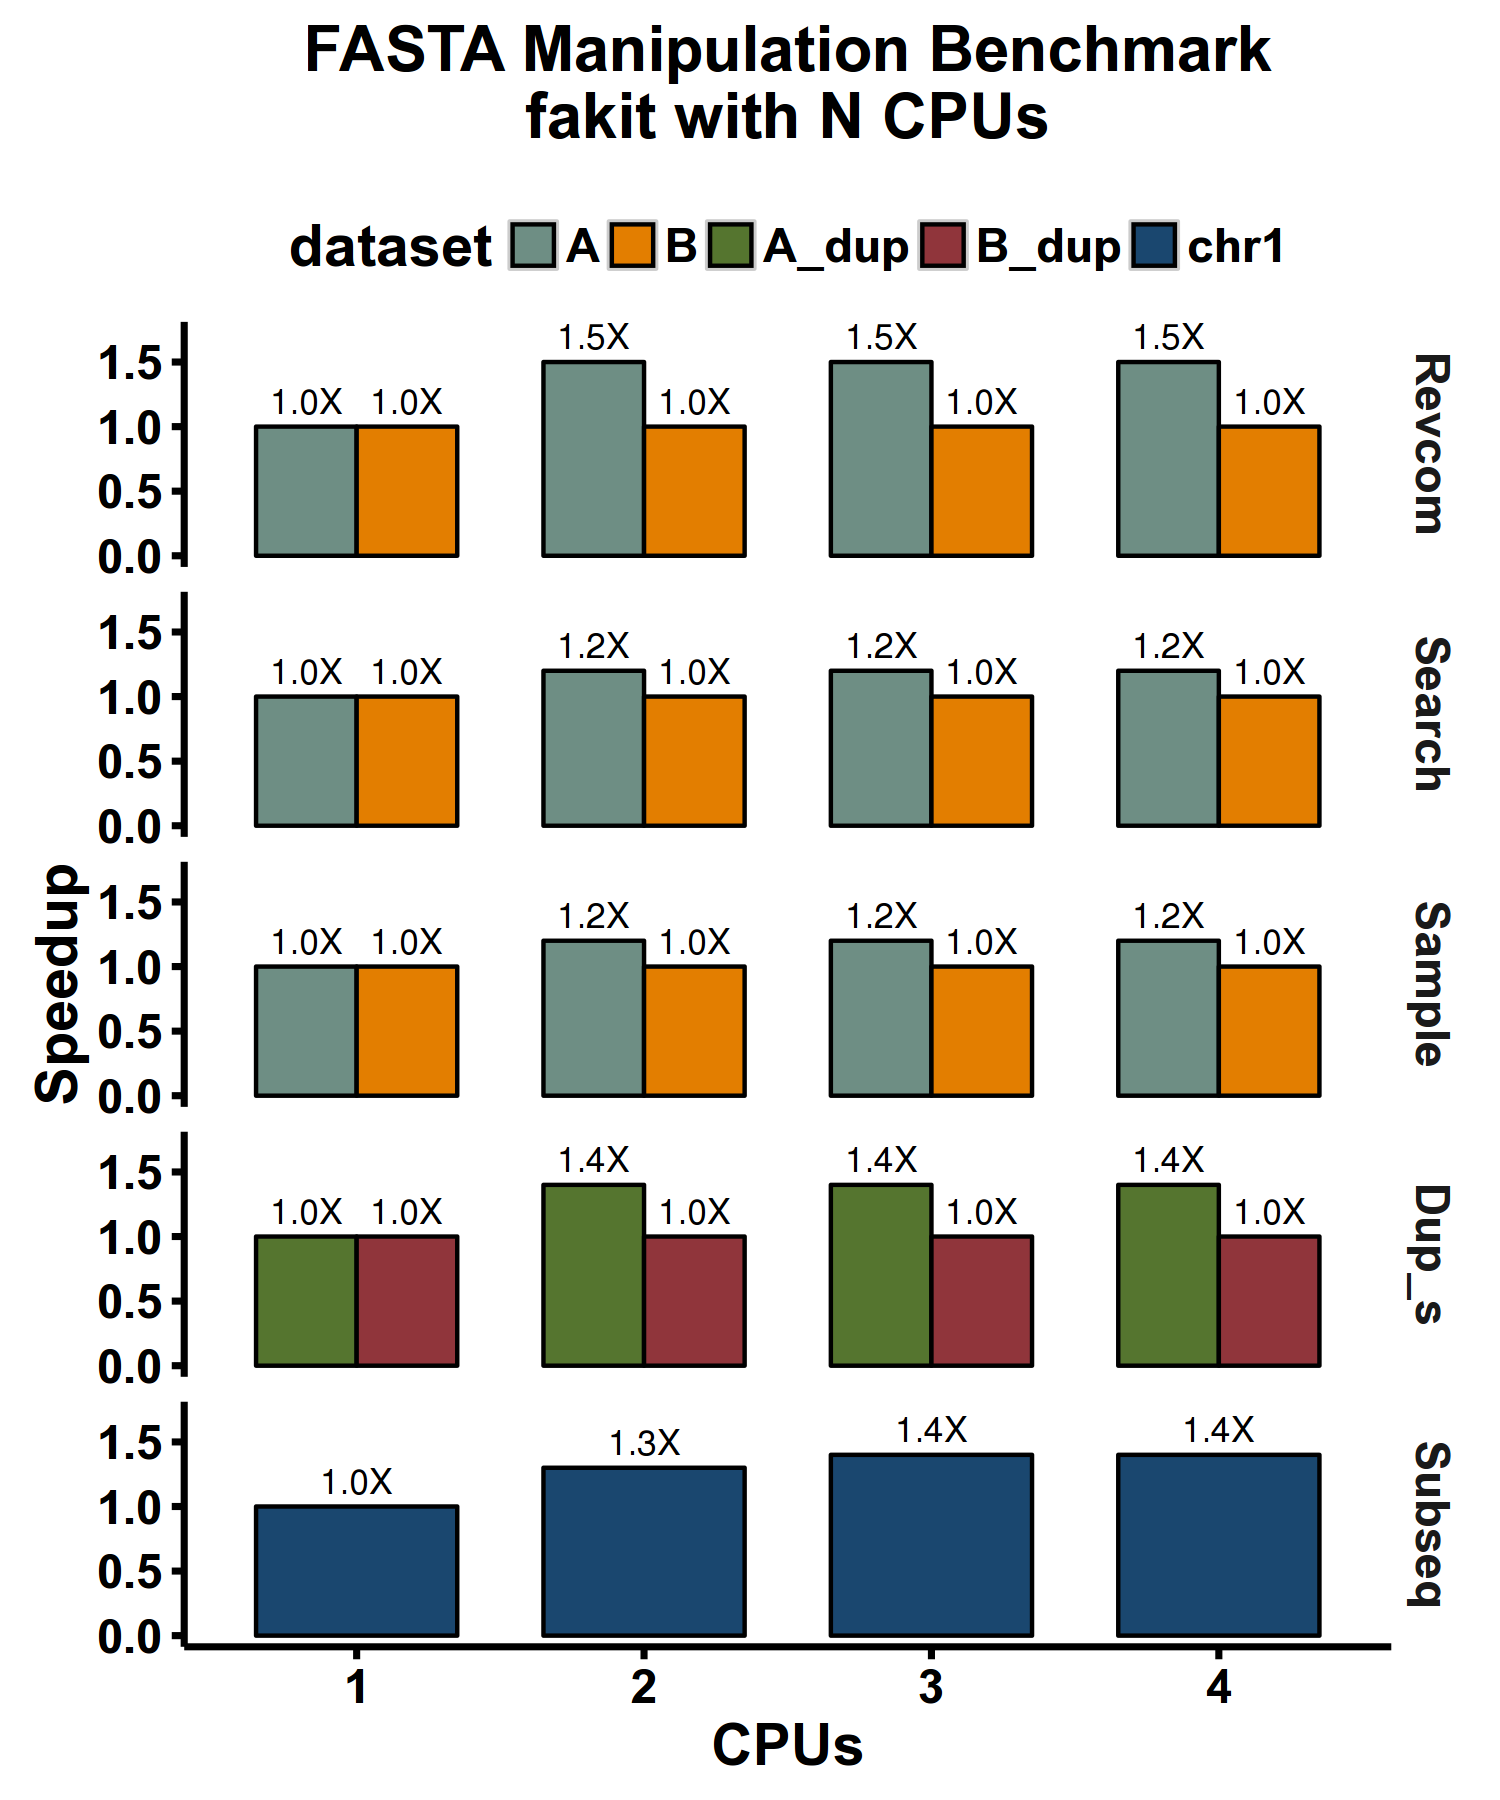
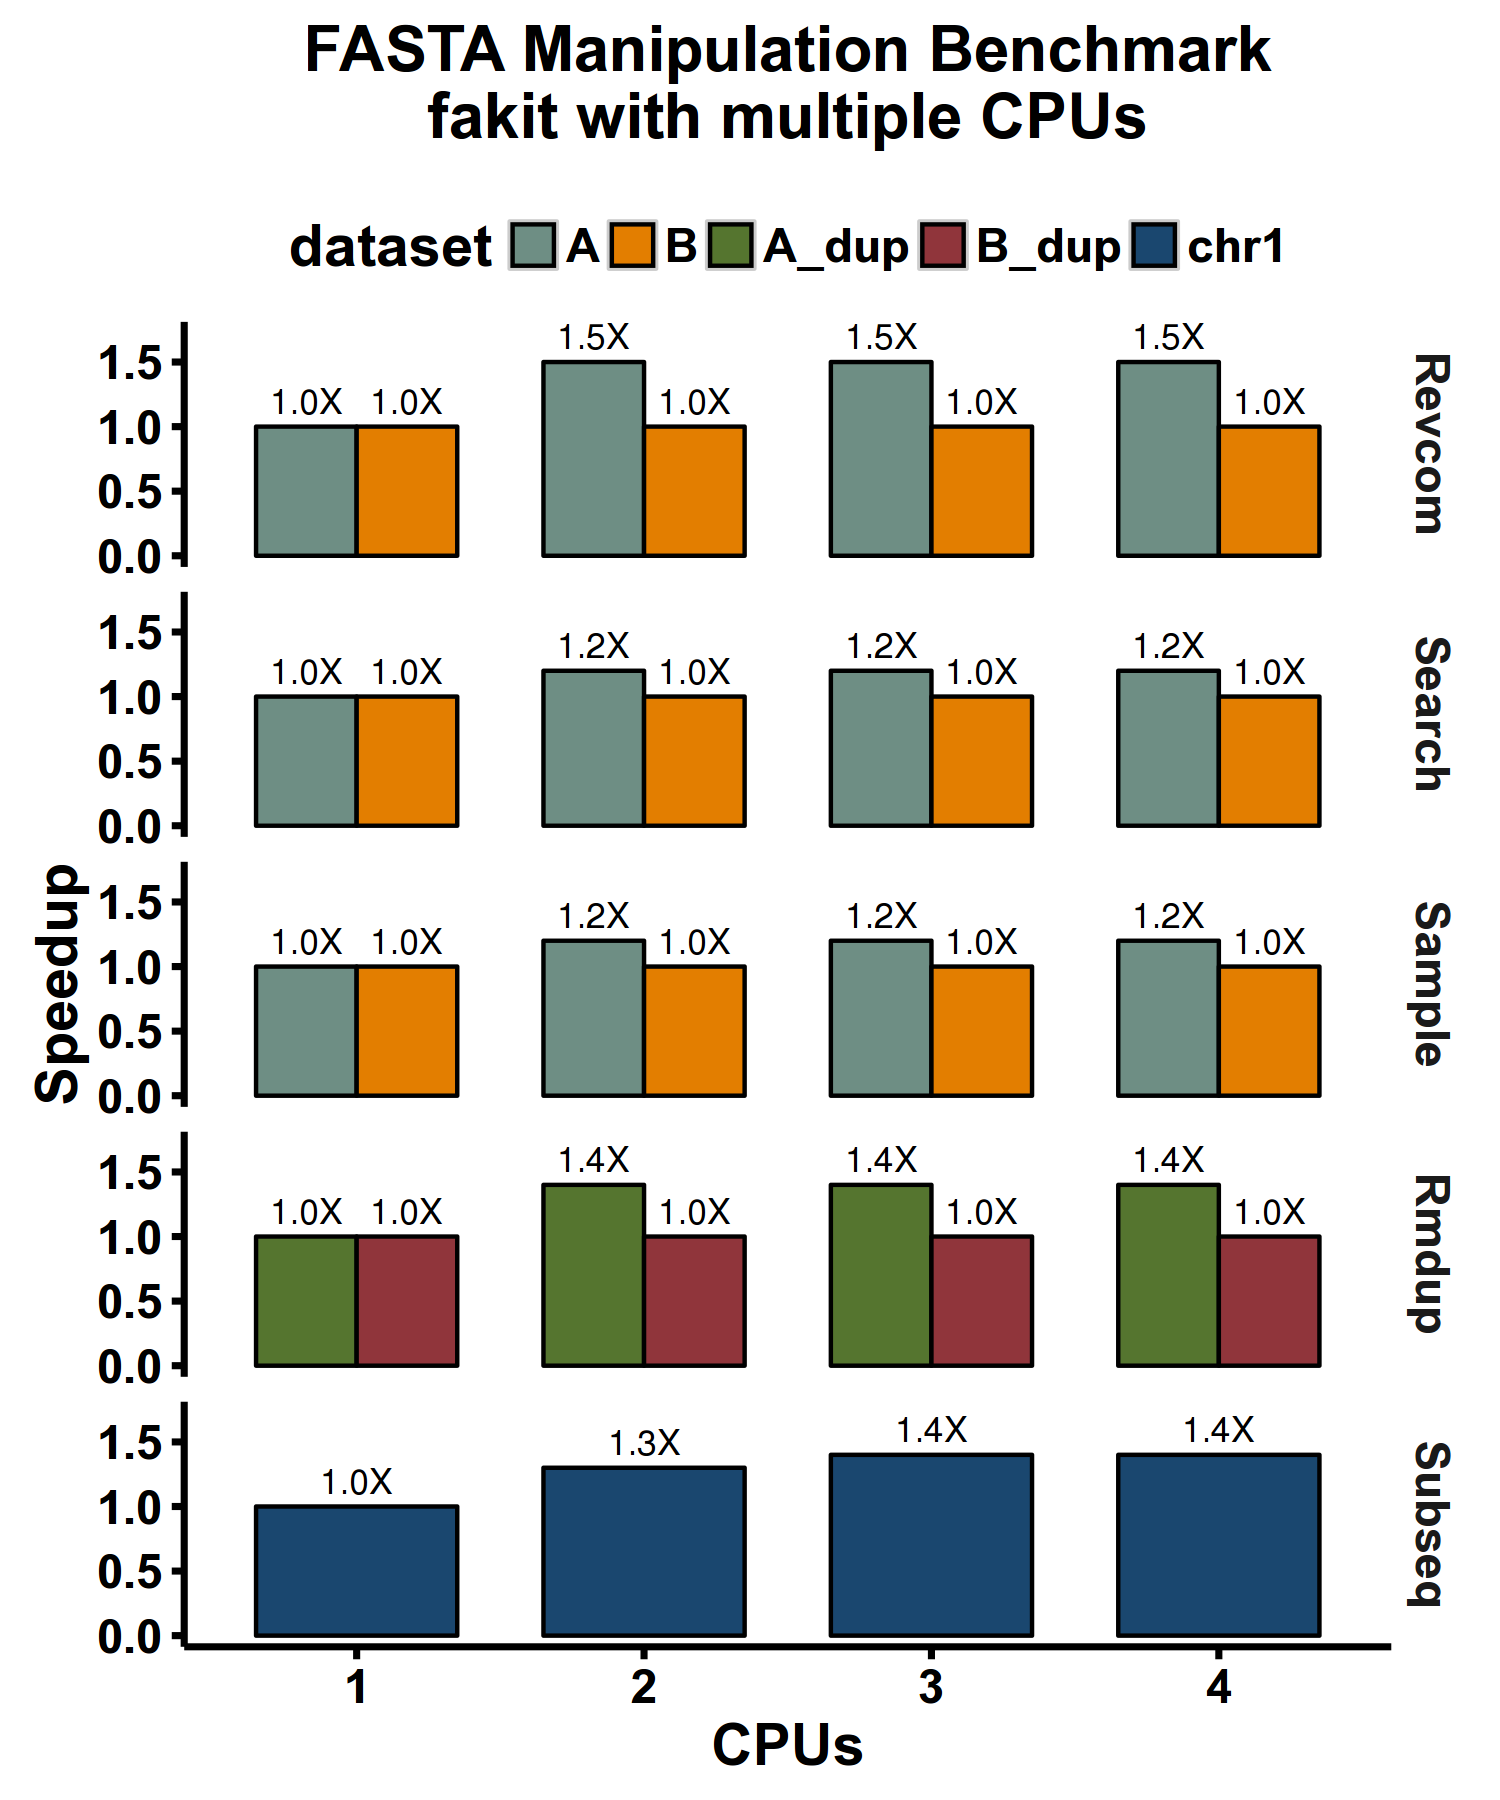
update doc

Changed region(s): [[0.276, 0.0311, 0.7667, 0.0933], [0.92, 0.6533, 0.9813, 0.7467]]

diff --git a/benchmark/index.html b/benchmark/index.html
@@ -143,7 +143,7 @@
         
             <li><a href="#platform">Platform</a></li>
         
-            <li><a href="#automatic-benchmark-and-ploting-scripts">Automatic benchmark and ploting scripts</a></li>
+            <li><a href="#automatic-benchmark-and-plotting-scripts">Automatic benchmark and plotting scripts</a></li>
         
             <li><a href="#test-1-reverse-complement">Test 1. Reverse Complement</a></li>
         
@@ -258,7 +258,7 @@
 <td>--</td>
 </tr>
 <tr>
-<td align="left">Search by motifs</td>
+<td align="left">Search by pattern</td>
 <td>Yes</td>
 <td>Yes</td>
 <td>--</td>
@@ -269,7 +269,7 @@
 <tr>
 <td align="left">Sample seqs</td>
 <td>Yes</td>
-<td>Yes</td>
+<td>--</td>
 <td>--</td>
 <td>--</td>
 <td>Yes</td>
@@ -460,8 +460,9 @@ dataset_B.fa         DNA           6    46,709,983    59,698,489    80,373,285
 <li>Perl: perl 5, version 22, subversion 1 (v5.22.1) built for x86_64-linux-thread-multi</li>
 <li>Python: Python 2.7.10 (default, Sep  8 2015, 17:20:17) [GCC 5.1.1 20150618 (Red Hat 5.1.1-4)] on linux2</li>
 </ul>
-<h2 id="automatic-benchmark-and-ploting-scripts">Automatic benchmark and ploting scripts</h2>
+<h2 id="automatic-benchmark-and-plotting-scripts">Automatic benchmark and plotting scripts</h2>
 <p>Scripts are available at:  <a href="https://github.com/shenwei356/fakit/tree/master/benchmark">https://github.com/shenwei356/fakit/tree/master/benchmark</a></p>
+<p>All tests were repeated 4 times.</p>
 <h2 id="test-1-reverse-complement">Test 1. Reverse Complement</h2>
 <h3 id="commands">Commands</h3>
 <p><code>revcom_biogo</code> (<a href="https://github.com/shenwei356/fakit/blob/master/benchmark/revcom_biogo.go">source</a>,
@@ -498,7 +499,7 @@ GQ103704.1.1352
 FR853054.1.1478
 
 $ fakit sample -p 0.8 dataset_B.fa | fakit shuffle | fakit seq -n -i  &gt; ids_B.txt
-wc -l ids_B.txt
+$ wc -l ids_B.txt
 4 ids_B.txt
 $ cat ids_B.txt
 Y
@@ -541,7 +542,8 @@ for f in dataset_{A,B}.fa; do echo data: $f; time seqtk sample $f $n &gt; $f.sam
 
 <h2 id="test-4-remove-duplicated-sequences">Test 4. Remove duplicated sequences</h2>
 <h3 id="dataset">Dataset</h3>
-<p>Randomly extract 10% sequences from dataset_*.fa and merge back and then shuffle.</p>
+<p>10% or 20% sequences were randomly extract sequences from dataset_A.fa 
+or dataset_B.fa and merge dback and then shuffled.</p>
 <pre><code>$ cat &lt;(fakit sample -p 0.1 dataset_A.fa) dataset_A.fa | fakit shuffle &gt; dataset_A_dup.fasta
 $ cat &lt;(fakit sample -p 0.2 dataset_B.fa) dataset_B.fa | fakit shuffle &gt; dataset_B_dup.fasta
 </code></pre>

diff --git a/index.html b/index.html
@@ -165,7 +165,7 @@ Existed tools only implemented parts of the functions,
 and some of them are only available for specific operating systems.
 Furthermore, the complicated installation process of dependencies packages and
 running environment also make them less friendly to common users.</p>
-<p>Fakit is cross-platform, efficient, and practical FASTA manipulations tool
+<p>Fakit is a cross-platform, efficient, and practical FASTA manipulations tool
 that is friendly for researchers to complete wide ranges of FASTA file processing.
 The suite supports plain or gzip-compressed input and output
 from either standard stream or files, therefore, it could be easily used in pipelines.</p>
@@ -505,5 +505,5 @@ propose new functions or ask for help.</p>
 
 <!--
 MkDocs version : 0.15.3
-Build Date UTC : 2016-03-27 08:17:28.690199
+Build Date UTC : 2016-03-27 16:20:49.874535
 -->
